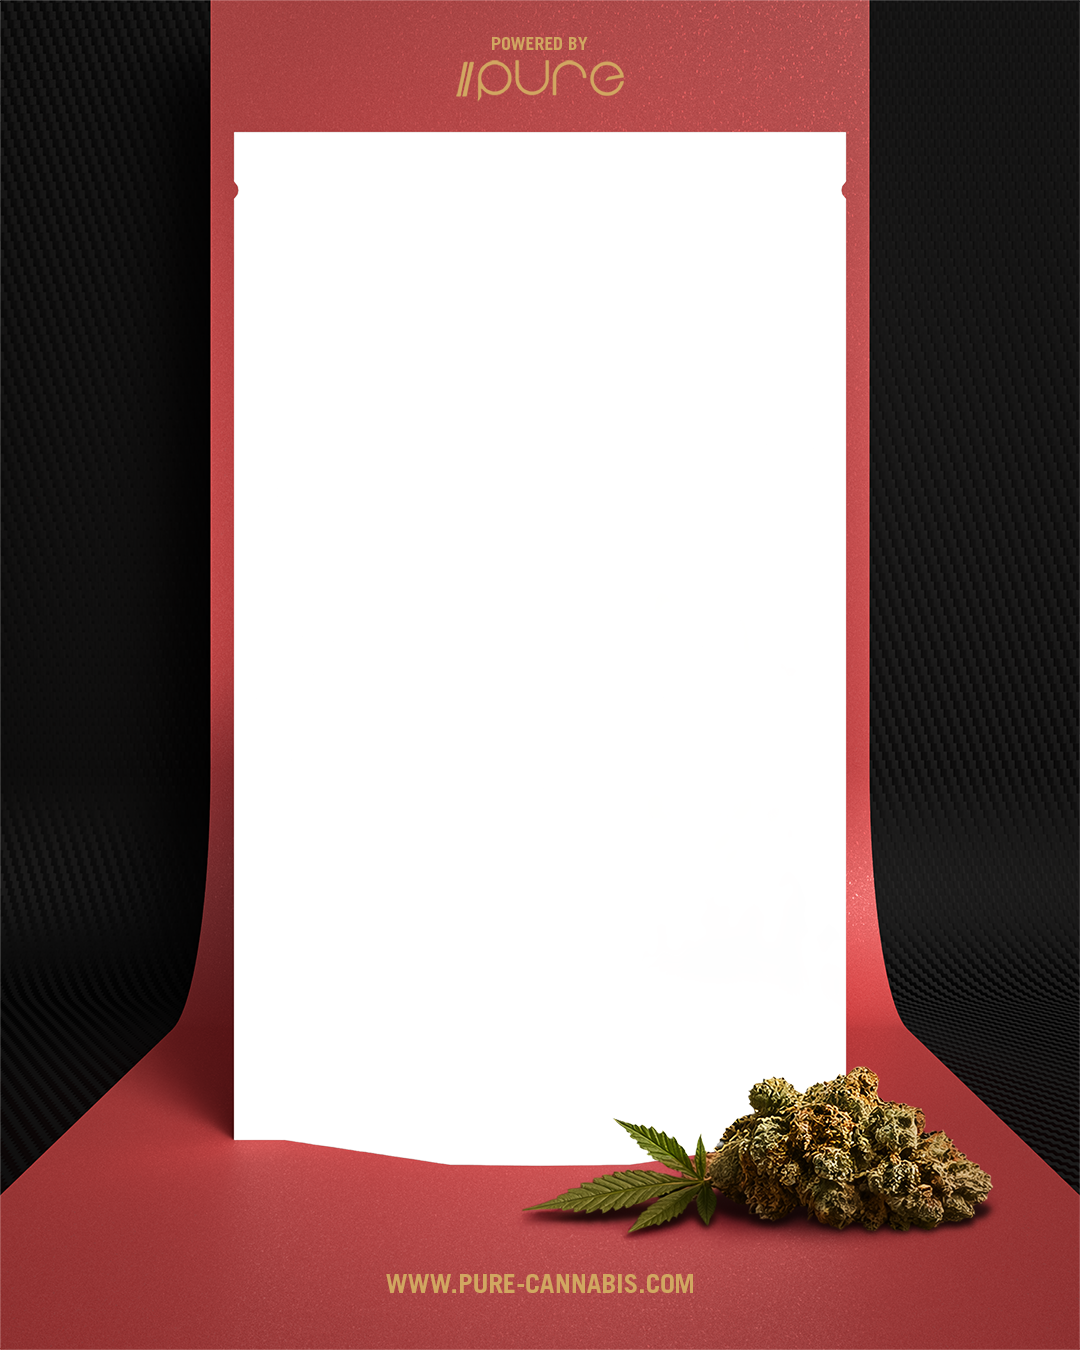
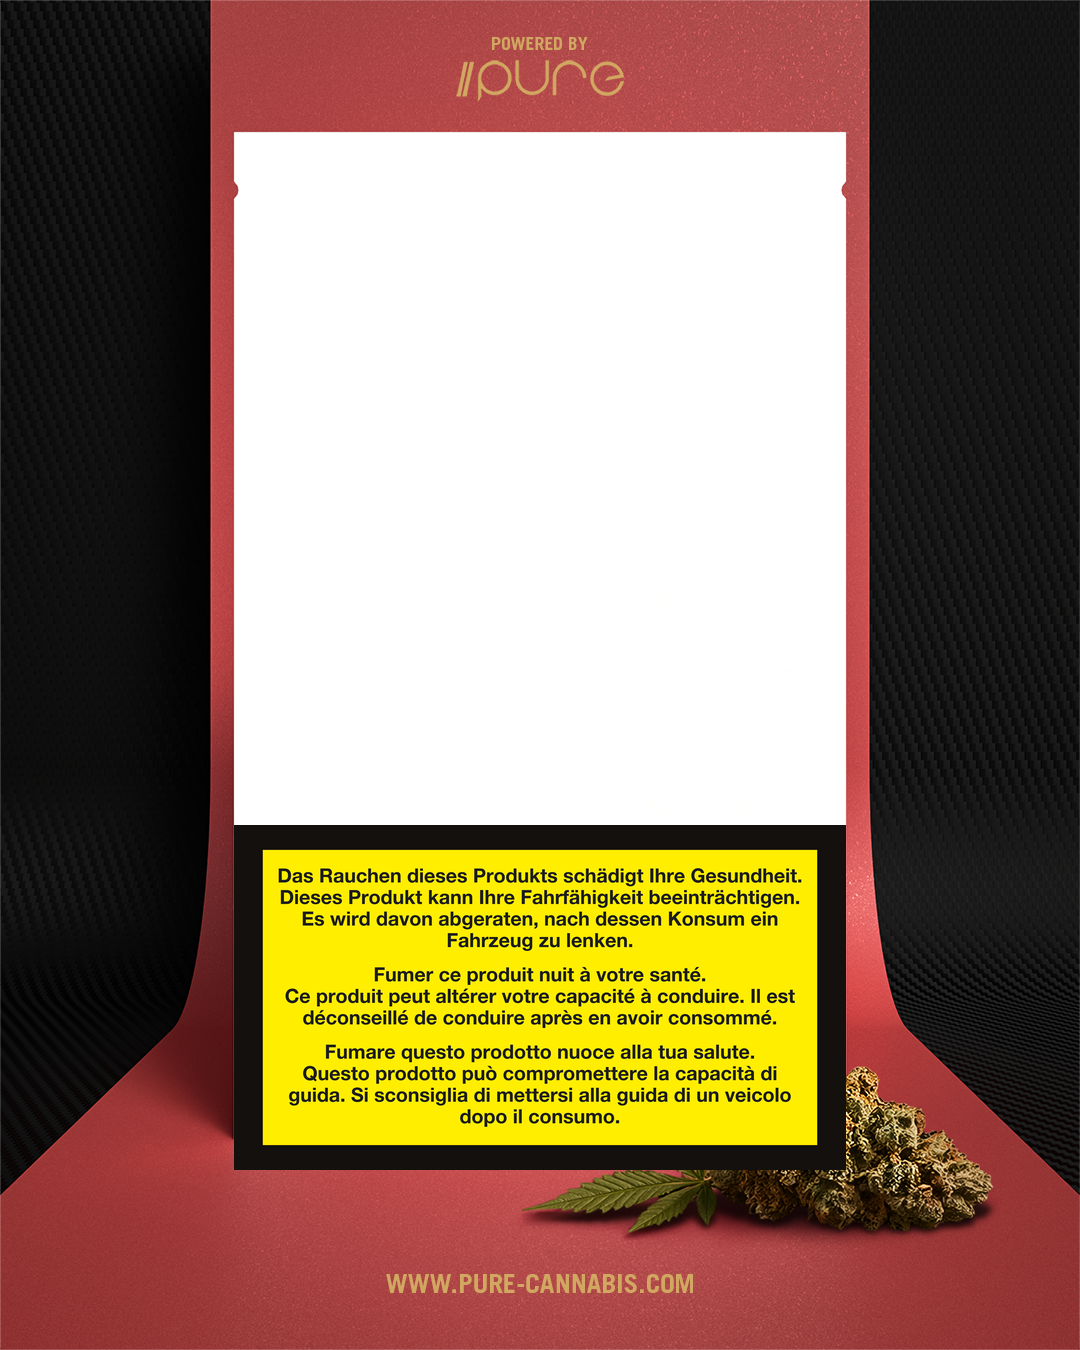
composite: pouche-layout with baked-in warning + label badges
- bake yellow warning band (y=825..1170) into backdrop_base.png
- KI fills upper 2/3 of paper slot (612x690 @ y=135)
- 3 transparent badge overlays: Grammage top-left, Food-Grade top-right, CoA bot-left
- drop bottom_overlay.png (source of grey smear + black stripe artefacts)
- negative-prompt: explicit reject of warning/banner so KI does not redraw it

Changed region(s): [[0.2139, 0.5911, 0.7944, 0.8711]]

diff --git a/tests/test_composite.py b/tests/test_composite.py
@@ -6,7 +6,16 @@ import sys
 ROOT = Path(__file__).parent.parent
 sys.path.insert(0, str(ROOT))
 
-from lib.composite import composite, TEMPLATE_W, TEMPLATE_H, SLOT_X, SLOT_Y, SLOT_W, SLOT_H
+from lib.composite import (
+    composite,
+    TEMPLATE_W,
+    TEMPLATE_H,
+    SLOT_X,
+    SLOT_Y,
+    SLOT_W,
+    SLOT_H,
+    BADGE_SIZE,
+)
 
 
 def _synthetic_ki(color=(50, 130, 200, 255)) -> bytes:
@@ -22,16 +31,50 @@ def test_composite_dimensions():
     assert img.size == (TEMPLATE_W, TEMPLATE_H)
 
 
-def test_composite_slot_filled():
+def test_composite_ki_slot_filled():
     out = composite(_synthetic_ki(color=(255, 0, 0, 255)))
     img = Image.open(BytesIO(out)).convert("RGB")
     cx = SLOT_X + SLOT_W // 2
     cy = SLOT_Y + SLOT_H // 2
     px = img.getpixel((cx, cy))
-    assert px[0] > 200 and px[1] < 60 and px[2] < 60, f"Slot centre not red, got {px}"
+    assert px[0] > 200 and px[1] < 60 and px[2] < 60, f"KI centre not red, got {px}"
+
+
+def test_composite_warning_baked_in():
+    out = composite(_synthetic_ki(color=(0, 0, 255, 255)))
+    img = Image.open(BytesIO(out)).convert("RGB")
+    # warning has dark borders + black text — sample multiple points and require >=1 yellow
+    samples = [
+        img.getpixel((SLOT_X + SLOT_W // 2, y))
+        for y in (855, 870, 940, 980, 1040, 1080, 1140)
+    ]
+    yellow_hits = sum(1 for px in samples if px[0] > 200 and px[1] > 180 and px[2] < 100)
+    assert yellow_hits >= 1, f"No yellow pixels found in warning band: {samples}"
+
+
+def test_composite_badges_present():
+    # badges have transparent backgrounds with black ink only — check the outer ring
+    # of each badge contains dark pixels (not raw KI red).
+    out = composite(_synthetic_ki(color=(255, 0, 0, 255)))
+    img = Image.open(BytesIO(out)).convert("RGB")
+    badge_origins = [
+        (SLOT_X + 15, SLOT_Y + 15),                              # Grammage top-left
+        (SLOT_X + SLOT_W - 15 - BADGE_SIZE, SLOT_Y + 15),        # Food-Grade top-right
+        (SLOT_X + 15, SLOT_Y + SLOT_H - 15 - BADGE_SIZE),        # CoA bottom-left
+    ]
+    for bx, by in badge_origins:
+        # scan the top edge of the badge — outer black ring lives here
+        dark = 0
+        for x in range(bx + 5, bx + BADGE_SIZE - 5):
+            px = img.getpixel((x, by + 4))
+            if px[0] < 80 and px[1] < 80 and px[2] < 80:
+                dark += 1
+        assert dark > 0, f"No dark ring pixels at badge origin ({bx},{by})"
 
 
 if __name__ == "__main__":
     test_composite_dimensions()
-    test_composite_slot_filled()
+    test_composite_ki_slot_filled()
+    test_composite_warning_baked_in()
+    test_composite_badges_present()
     print("All composite tests passed.")

diff --git a/lib/composite.py b/lib/composite.py
@@ -7,25 +7,31 @@ from PIL import Image, ImageOps
 
 TEMPLATE_W, TEMPLATE_H = 1080, 1350
 SLOT_X, SLOT_Y = 234, 135
-SLOT_W, SLOT_H = 612, 1035  # fills entire studio paper (y=135..1170)
+SLOT_W, SLOT_H = 612, 690  # 2/3 of the paper (lower 1/3 has the warning baked into the backdrop)
 
 ASSETS_DIR = Path(__file__).parent.parent / "assets"
 BACKDROP_PATH = ASSETS_DIR / "backdrop_base.png"
-OVERLAY_PATH = ASSETS_DIR / "bottom_overlay.png"
+LABELS_DIR = ASSETS_DIR / "labels"
+
+BADGE_SIZE = 80
+BADGE_POSITIONS = {
+    "Label_Grammage.png":   (SLOT_X + 15,                        SLOT_Y + 15),
+    "Label_Food_Grade.png": (SLOT_X + SLOT_W - 15 - BADGE_SIZE,  SLOT_Y + 15),
+    "Label_CoA.png":        (SLOT_X + 15,                        SLOT_Y + SLOT_H - 15 - BADGE_SIZE),
+}
 
 
 def composite(ki_bytes: bytes) -> bytes:
     backdrop = Image.open(BACKDROP_PATH).convert("RGBA")
-    overlay = Image.open(OVERLAY_PATH).convert("RGBA")
     ki = Image.open(BytesIO(ki_bytes)).convert("RGBA")
 
-    # ImageOps.fit center-crops + resizes so the slot is fully covered
-    # without horizontal/vertical stretching when KI aspect differs from slot.
-    # centering=(0.5, 0.4) keeps a bit more of the upper half.
-    ki_fitted = ImageOps.fit(ki, (SLOT_W, SLOT_H), Image.LANCZOS, centering=(0.5, 0.4))
-
+    ki_fitted = ImageOps.fit(ki, (SLOT_W, SLOT_H), Image.LANCZOS, centering=(0.5, 0.5))
     backdrop.paste(ki_fitted, (SLOT_X, SLOT_Y), ki_fitted)
-    backdrop.paste(overlay, (0, 0), overlay)
+
+    for fname, pos in BADGE_POSITIONS.items():
+        badge = Image.open(LABELS_DIR / fname).convert("RGBA")
+        badge = badge.resize((BADGE_SIZE, BADGE_SIZE), Image.LANCZOS)
+        backdrop.paste(badge, pos, badge)
 
     out = BytesIO()
     backdrop.save(out, format="PNG", optimize=True)

diff --git a/lib/prompt_builder.py b/lib/prompt_builder.py
@@ -9,13 +9,15 @@ BRAND_GUIDE = (
     "Brand: Pure Cannabis (CH/EU, CBD <1% THC). "
     "Visual style: cinematic, photo-realistic, vivid colour, high detail. "
     "Output must be 2:3 portrait (taller than wide). "
-    "Central composition with ~10% padding from edges. "
-    "Lower-right area should remain visually calm — keep main subject in upper 2/3 and centre. "
+    "Central pouch-front motif, edge bleed safe, ~10% padding from all edges. "
+    "Lower-right area should remain visually calm — keep main subject central. "
     "Vocabulary: replace 'weed/joint/smoke/high' with 'hemp/CBD/botanical/wellness'."
 )
 
 DEFAULT_NEGATIVE = (
     "text, letters, words, numbers, captions, labels, logos, brand marks, watermarks, "
+    "yellow warning label, multilingual warning text, paragraphs, bottom banner, "
+    "smoking warning, health warning text, "
     "frames, borders, packaging mockup, pouch, doypack, studio backdrop, red floor, "
     "studio curtain, cannabis leaves at lower-right corner, hands, fingers, faces, "
     "people, persons, children, low quality, blurry, distorted"

diff --git a/scripts/build_backdrop.py b/scripts/build_backdrop.py
@@ -1,0 +1,26 @@
+from pathlib import Path
+from PIL import Image, ImageOps
+
+ROOT = Path(__file__).parent.parent
+SRC_BACKDROP = Path("/Users/achisumma/Downloads/KI_Packaging_Design_Sources/Backdrop/KI_Packaging_Design_Backdrop.png")
+SRC_WARNING = Path("/Users/achisumma/Downloads/KI_Packaging_Design_Sources/Warning/PNG/Warning.png")
+OUT = ROOT / "assets" / "backdrop_base.png"
+
+WARNING_X, WARNING_Y = 234, 825
+WARNING_W, WARNING_H = 612, 345
+
+
+def main() -> None:
+    bd = Image.open(SRC_BACKDROP).convert("RGBA")
+    assert bd.size == (1080, 1350), f"unexpected backdrop size: {bd.size}"
+
+    warning = Image.open(SRC_WARNING).convert("RGBA")
+    warning_fit = ImageOps.fit(warning, (WARNING_W, WARNING_H), Image.LANCZOS, centering=(0.5, 0.5))
+
+    bd.paste(warning_fit, (WARNING_X, WARNING_Y), warning_fit)
+    bd.save(OUT, format="PNG", optimize=True)
+    print(f"wrote {OUT} ({OUT.stat().st_size} bytes)")
+
+
+if __name__ == "__main__":
+    main()
